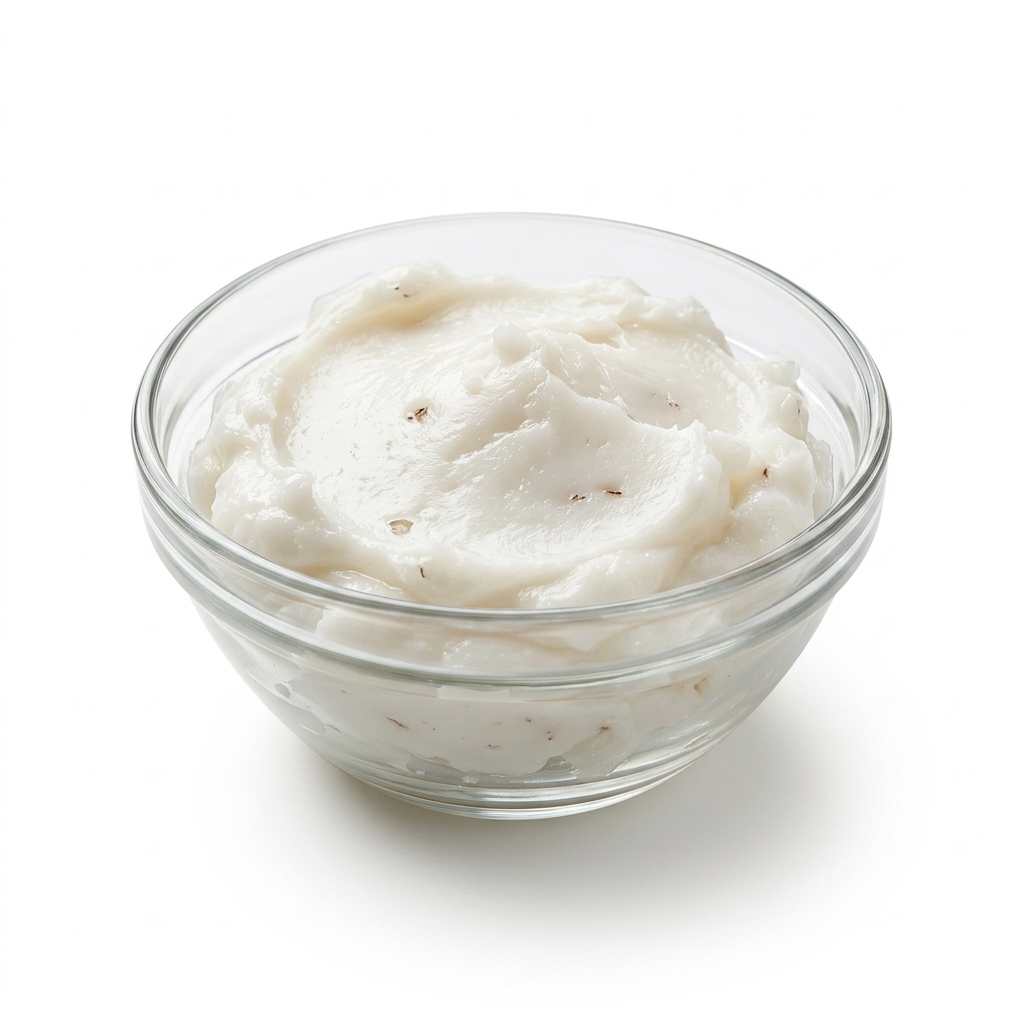
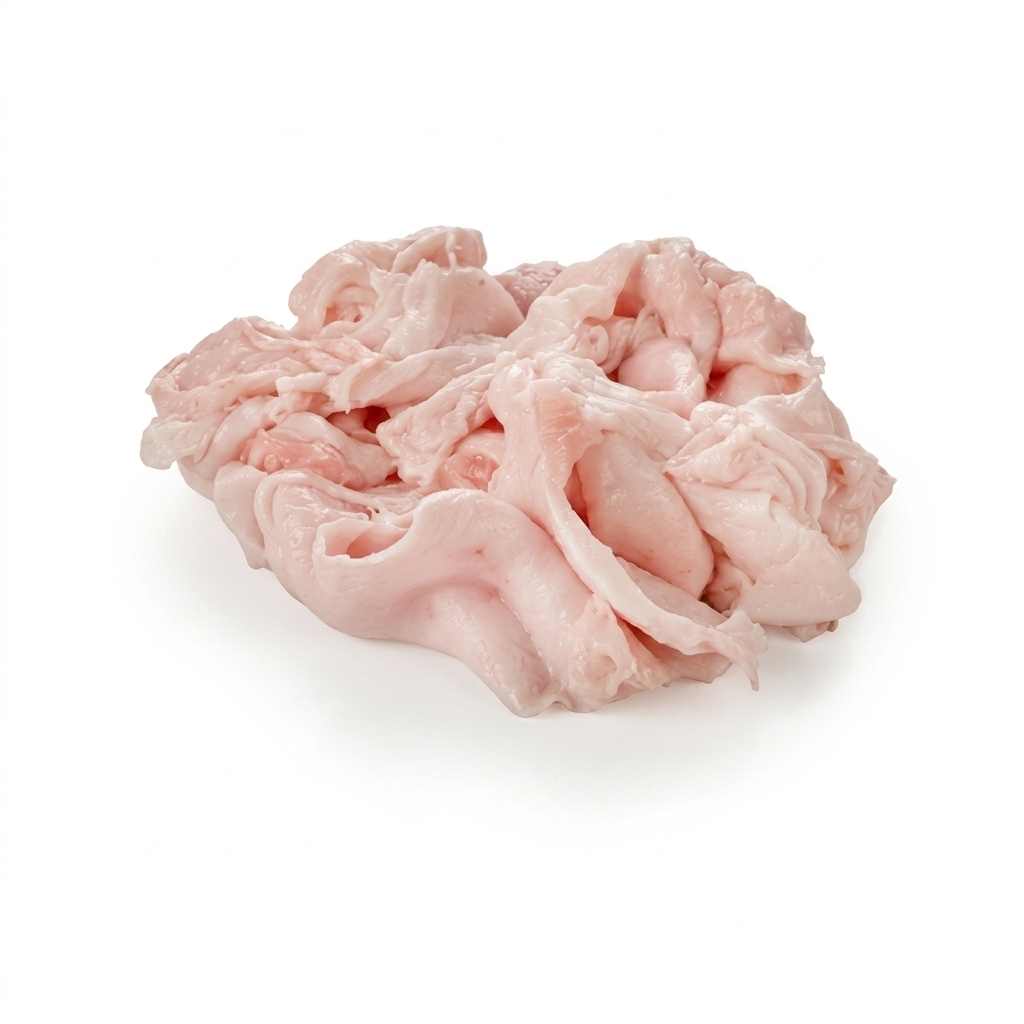
Actualizar textos y enlaces en la sección de atención personalizada mayorista

diff --git a/client/src/App.jsx b/client/src/App.jsx
@@ -25,7 +25,7 @@ import { TbMeat } from "react-icons/tb";
 const BASE_CUTS = {
   vacuna: [
     {
-      name: "1/2 Res de Vaca",
+      name: "1/2 Res",
       desc: "Fresca y lista para despostar",
       img: "/mediaRes.png",
     },
@@ -1004,19 +1004,26 @@ export default function App() {
             <div className="relative max-w-6xl mx-auto px-4 sm:px-6 py-16 sm:py-24 flex flex-col md:flex-row md:items-center md:gap-16">
               {/* Left: headline + CTA */}
               <div className="flex-1 mb-10 md:mb-0">
-                <p className="text-white/90 text-xs font-bold uppercase tracking-widest mb-3">
-                  Una experiencia de compra directa, sin intermediarios.
-                </p>
-                <h1 className="text-white font-black text-4xl sm:text-5xl leading-none uppercase mb-4">
+                <h1 className="text-white font-black text-4xl sm:text-5xl leading-none uppercase mb-4 text-center">
                   ABASTECEDORA
                   <br />
                   VALETTE
                 </h1>
-                <p className="text-gray-300 leading-relaxed max-w-sm mb-8 text-sm sm:text-base">
-                  Ofrecemos una amplia selección de cortes de carne frescos y de
-                  calidad para tu mesa, con el respaldo de nuestra experiencia
-                  produciendo en vacas, cerdos y pollos.
+
+                <p className="text-white/90 text-sm font-bold uppercase tracking-widest mb-3 text-center">
+                  experiencia de compra directa, sin intermediarios.
                 </p>
+
+                <p className="text-gray-300 leading-relaxed max-w-sm my-8 sm:text-lg">
+                  <b>No pagues de más.</b> Somos productores con criadero
+                  propio, la mejor hacienda y te vendemos directo, sin
+                  intermediarios. Todo lo que necesita tu comercio o tu hogar.{" "}
+                  <br />{" "}
+                  <b>
+                    <u>Ahorrá sin sacrificar calidad</u>
+                  </b>
+                </p>
+
                 <div className="flex flex-col sm:flex-row gap-3">
                   <a
                     href="#nuestras-carnes"
@@ -1031,6 +1038,15 @@ export default function App() {
                     <FaWhatsapp size={16} /> Contactanos
                   </button>
                 </div>
+
+                <a
+                  href="https://wa.me/541128353615?text=Hola!%20Me%20comunico%20desde%20la%20web,%20me%20interesa%20la%20venta%20mayorista."
+                  target="_blank"
+                  rel="noopener noreferrer"
+                  className="flex my-10 w-fit px-4 mx-auto sm:ms-0 items-center gap-2 bg-main border border-neutral-500 text-white font-black text-sm py-3.5 rounded-xl hover:bg-main/90 active:scale-[.97] transition-all whitespace-nowrap shadow-md"
+                >
+                  <FaWhatsapp size={16} /> ATENCIÓN PERSONALIZADA MAYORISTA
+                </a>
               </div>
 
               {/* Right: value props */}
@@ -1265,7 +1281,7 @@ export default function App() {
                 rel="noopener noreferrer"
                 className="flex items-center gap-2 bg-white text-[#8B0000] font-black text-sm px-6 py-3.5 rounded-xl hover:bg-red-50 active:scale-[.97] transition-all whitespace-nowrap shadow-md"
               >
-                ATENCIÓN PERSONALIZADA <FaWhatsapp size={16} />
+                ATENCIÓN PERSONALIZADA MAYORISTA <FaWhatsapp size={16} />
               </a>
             </div>
           </section>